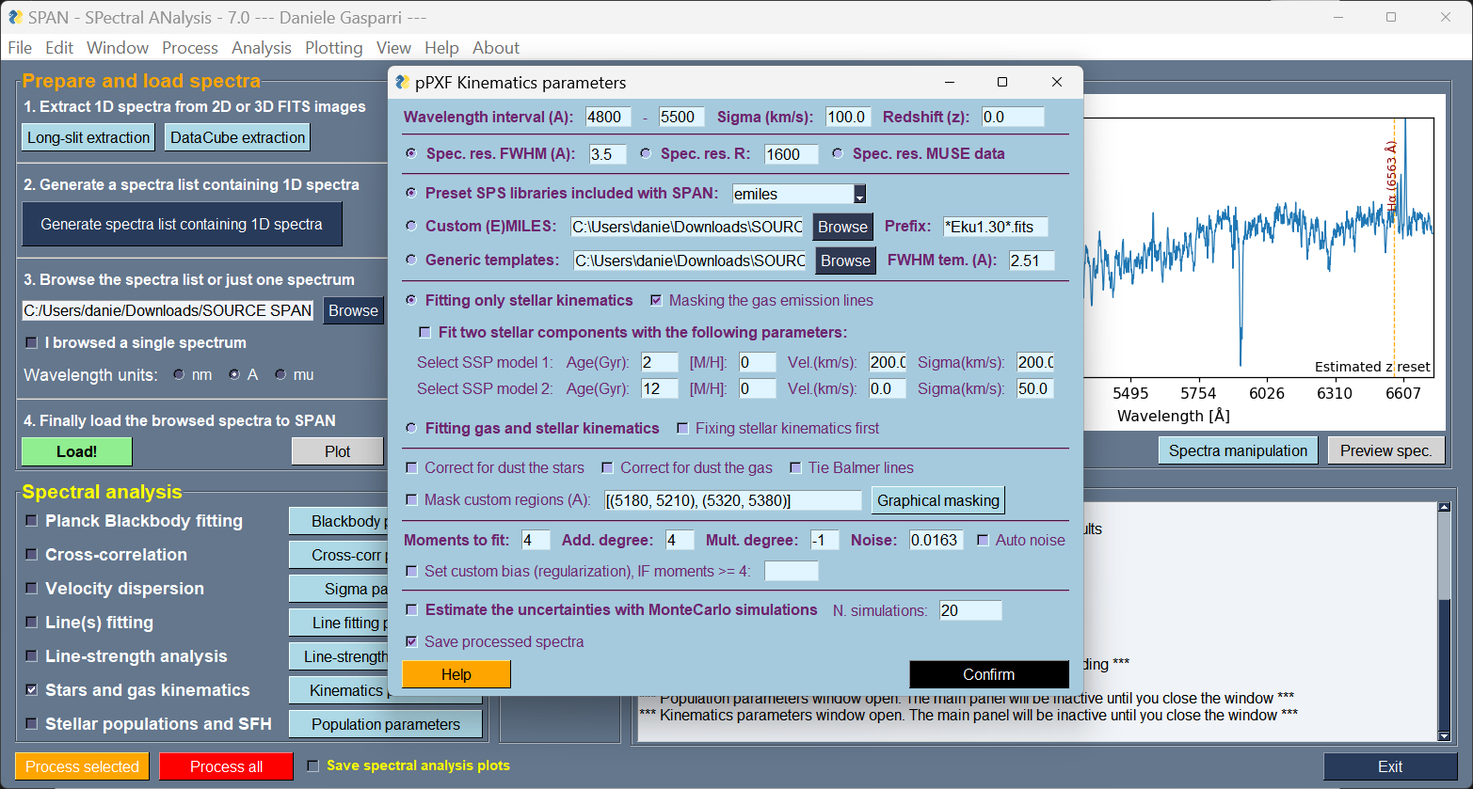
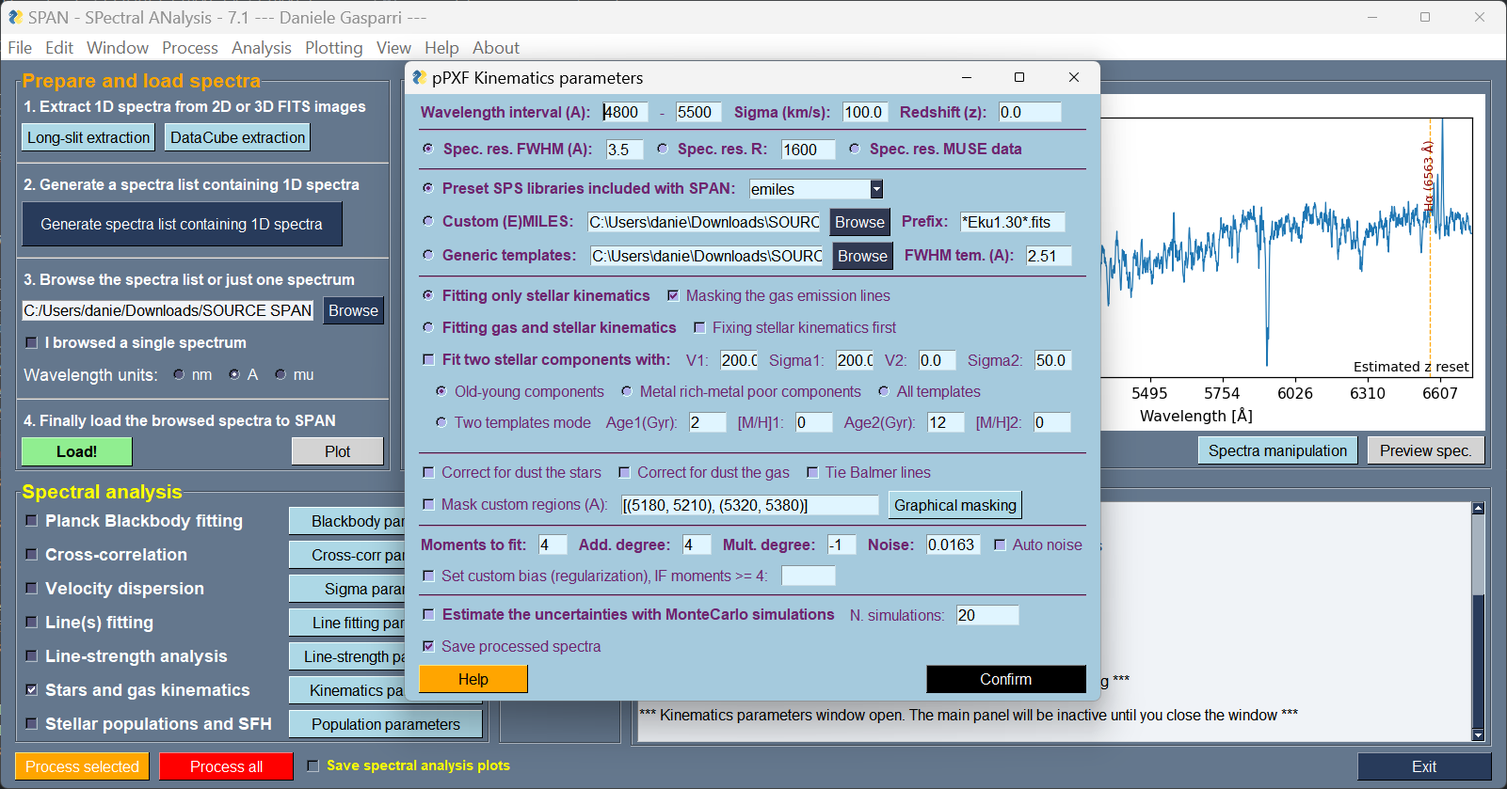
Add files via upload

diff --git a/docs/stars_and_gas_kinematics.md b/docs/stars_and_gas_kinematics.md
@@ -1,5 +1,5 @@
-SPAN: SPectral ANalysis software V7.0
-Daniele Gasparri, September 2025
+SPAN: SPectral ANalysis software V7.1
+Daniele Gasparri, October 2025
 
 # Stars and gas kinematics #
 
@@ -45,31 +45,39 @@ You can use any kind of EMILES templates or generic ones. The generic templates 
 
 
 ### Fourth Section: Which component to fit
-1. "Fitting only stellar kinematics": You can mask all (potential) emission lines to fit only the stellar component. Here you can also decide whether fitting two stellar components by activating the "Fit two stellar components with the following parameters" checkbox. The two component fit is performed by extracting two SSP templates from the library you have chosen above, with defined age and metallicity, following Rubino et al., 2021. You must insert the age and metallicity values of the two SSP to be retrieved, as well as a GOOD guess of the velocity and velocity dispersion of the two components you think to see in your spectrum. I stress out that a good guess is necessary (according to Cappellari et al., 2023 and the pPXF documentation), so first take an accurate look at your spectrum and make some tries.
-2. "Gas and Stars Kinematics": Considers both stellar and gaseous emission lines. Here only one stellar component is fitted, along with as many gaseous components SPAN will find on your spectrum (Balmer liner, forbidden lines and other lines), based on a modified version of the line emission template provided by pPXF and embedded in the "spectral_analysis.py" module in the "span_functions" folder. By default, stars and gas kinematics are calculated together with one fit. However, often is necessary to fix the stellar kinematics to perform a more accurate gas fit. The option "Fixing stellar kinematics first" will perform a first fit only for the stellar components and will use the kinematics moments derived to fix them in the subsequent fit for the gas component.
+
+1. "Fitting only stellar kinematics": Considering only the stellar component. To prevent gas emission lines in the optical, the option "Mask emission lines is activated by default". If you are fitting the optical window and are absolutely sure to not have emission (usually in HBeta and HAlpha) you can disable this option. 
+2. "Gas and Stars Kinematics": Considers both stellar and gaseous emission lines. The gas components are divided into three families: Balmer lines, forbidden lines, other lines. SPAN will automatically fit all the components found in the spectral range given, using a modified version of the line emission template provided by pPXF and embedded in the "spectral_analysis.py" module in the "span_functions" folder. By default, stars and gas kinematics are calculated together with one fit. However, often is necessary to fix the stellar kinematics to perform a more accurate gas fit. The option "Fixing stellar kinematics first" will perform a first fit only for the stellar components and will use the kinematics moments derived to fix them in the subsequent fit for the gas component.
+3. Two stellar component fit option: Here you can also decide to fit two stellar components by activating the "Fit two stellar components with:" checkbox. This option is important only when you have kinematic decoupled stellar components (e.g. counter-rotating discs) with high S/N (> 50). It can be activated both with stellar and gas fit option, but gas will always be fitted with one kinematic component. Dust correction is not available (both for star and gas) in this mode. You need to insert an accurate velocity and velocity dispersion guess for both the stellar components. Beside this, you can select the templates to assign to each component, based on three options: 1) Old (> 5 Gyr) and young (< 5 Gyr) components, 2) Metal rich ([M/H] > 0 ) and metal poor ([M/H] < 0) components, 3) pick two templates with fixed age and metallicity. This option has been used in some works with counter-rotating discs as such Rubino et al., 2021.
+**WARNING:** Two component fit is available only by using the pre-set template set of SPAN and with any (E)MILES template. Not available for fully custom templates, since it needs to read the information about age and metallicity of the SSPs.
+**IMPORTANT1:** For the two component fit you must always insert a GOOD guess of the velocity and velocity dispersion of the two components you think to see in your spectrum. I stress out that a good guess is necessary (according to Cappellari et al., 2023 and the pPXF documentation), so first take an accurate look at your spectrum. Some tries may be necessary to find the correct parameters and it is better to perform these tests on spectral regions not affected by gas (e.g. the CaT lines) with the option "Fit only stellar kinematics".
+**IMPORTANT2:** If "save processed spectra" is activated, in the two component fit mode SPAN will save the bestfit template from pp.bestfit provided directly by pPXF. However, this bestfit template contains the two components summed up. If you want to separate and analyze each stellar component, SPAN will also save the two besftit templates for each stellar component (suffix comp1_ and comp2_) so that comp1_+comp2_ = pp.bestfit. This uses the pp.matrix keyword of pPXF to reconstruct the bestfit models of each stellar component. Be aware that if you intend to use these separated bestfit templates for further analysis besides the kinematics (e.g. line-strength, SFH) you SHOULD perform the two component fit using ONLY multiplicative degree and deactivating the additive (set to -1). If using additive degree, SPAN will reconstruct and save the two separated bestfit templates without considering the additive polynomials you gave, so you should expect comp1_+comp2_ != pp.bestfit. This should preserve the line fluxes anyway, but it's better to simply avoid the additive degree polynomial, where possible. When gas emission is present, is expected that comp1_+comp2_ != pp.bestfit, since here pp.bestfit contains also the emission lines. 
+**IMPORTANT3:** pPXF requires spectra to be normalized to unity to avoid instabilities, but the gas flux calculated on normalized spectra is not physically useful. Therefore, during the "Stars and gas kinematics" task with the option "Stellar and gas kinematics", SPAN saves the normalization factor of each spectrum (np.median(galaxy)) and multiplies by this factor the gas flux calculated by pPXF to give a physical flux for the gas. These gas flux values are NOT shown in the pPXF output in the terminal (I cannot modify the pPXF output), but are saved and stored in the ASCII file generated in the "Process all" mode.
 
 
 ### Fifth Section: Dust and masking
-Here you can activate the dust/extinction corrections or decide to mask custom regions of your spectra. 
+Here you can activate the dust/extinction corrections or decide to mask custom regions of your spectra.
 
 The dust correction uses the Cappellari (2023) 2-parameter attenuation model for the stellar component and the Calzetti (2000) 1-parameter attenuation model for the gas. If you are interested only to kinematics (i.e. no gas flux) you can safely neglect the dust parametrization in most situations.
+**WARNING:** Dust correction is not available for the two component fit mode.
 
 The masking will act directly on the "goodpixels" keyword of pPXF and can be used also when the emission line masking is activated.
-There are two masking options available: 
+There are two masking options available:
 
 - Manual masking, by inserting the wavelength interval(s) to be masked, separated by commas and parenthesis in the text box. If invalid values are inserted, SPAN will warn you.
 - Graphical masking mode, activated by pressing the "Graphical masking" button. In this mode, an interactive Matplotlib window will open displaying the spectrum selected. You can then mask custom portion directly on the spectrum by ctrl+left click and drag. You can deselect the masked region by ctrl+right click and drag. On touchscreen devices (i.e. Android systems), masking and unmasking modes are activated by a tap on the screen and the relative selection is done by tapping and dragging on the spectrum. When graphical masking in done, you can close the Matplotlib window and the text box on the left will update with the new ranges selected.
 
 
 ### Sixth Section: Kinematic Parameters
-- Gauss-Hermite Moments: Determines the complexity of the Line-of-Sight Velocity Distribution (LOSVD) model. Minimum moments to be fitted: 2 (radial velocity + velocity dispersion). Maximum moments: 6. Typical values: 2 for regular galaxies and/or for the two stellar component fit, 4 for interacting or asymmetric galaxies.
-- Polynomial Degree: Specifies the degree of additive and multiplicative polynomials used by pPXF to adjust the continuum level of spectral templates. Additive polynomials give reliable kinematics results. A degree of 4 is a good starting point. **WARNING:** Additive polynomials are fine for pure kinematic analysis but not for measuring the gas line fluxes. If you are interested also to a correct measurement of gas line fluxes, you should deactivate the additive degree polynomials (set the degree to -1) and use ONLY the multiplicative degree polynomials. 
+
+- Gauss-Hermite Moments: Determines the complexity of the Line-of-Sight Velocity Distribution (LOSVD) model. Minimum moments to be fitted: 2 (radial velocity + velocity dispersion). Maximum moments: 6. Typical values: 2 for regular galaxies and/or for the two stellar component fit, 4 for interacting or asymmetric galaxies. **IMPORTANT:** moments are always referred to the stellar component. Gas moments are set to 2 by default and cannot be changed.
+- Polynomial Degree: Specifies the degree of additive and multiplicative polynomials used by pPXF to adjust the continuum level of spectral templates. Additive polynomials give reliable kinematics results. A degree of 4 is a good starting point. **WARNING:** Additive polynomials are fine for pure kinematic analysis but not for measuring the gas line fluxes. If you are interested also to a correct measurement of gas line fluxes, you should deactivate the additive degree polynomials (set the degree to -1) and use ONLY the multiplicative degree polynomials.
 - Noise Level: Represents the expected mean noise level in the spectrum (assumed constant across the wavelength range), used to compute the Chi^2 of the fit and derive formal uncertainties.
-As per the pPXF documentation, formal uncertainties are meaningful only if Chi2 = 1.
-If unsure about the noise level, enable "Auto Noise". This feature will:
-	1. Perform an initial fit using the user-provided noise level without regularization (bias keyword set to zero).
-	2. Compute a refined noise estimate.
-	3. Re-run the fit using the updated noise value to obtain more accurate LOSVD parameters.
+  As per the pPXF documentation, formal uncertainties are meaningful only if Chi2 = 1.
+  If unsure about the noise level, enable "Auto Noise". This feature will:
+  1. Perform an initial fit using the user-provided noise level without regularization (bias keyword set to zero).
+  2. Compute a refined noise estimate.
+  3. Re-run the fit using the updated noise value to obtain more accurate LOSVD parameters.
 - Custom bias keyword: To be used only when you fit at least 4 moments. This lets you to change the default bias value that pPXF uses (bias = 0.7*np.sqrt(500./goodpixels.size), from Cappellari & Emsellem 2004) and try to adjust the fit to a better estimate of H3 and H4 moments.
 
 ### Seventh Section: Uncertainty Estimation
@@ -84,6 +92,7 @@ In **"Process selected"** mode, if the option "Save processed spectra" is activa
 - bestfit model spectrum
 - bestfit gas model spectrum (if kinematics of stars and gas is activated)
 - emission corrected spectrum (if kinematics of stars and gas is activated)
+- bestfit model spectrum of the stellar component 1 and 2 (if "Fit two stellar components" option is activated)
 - continuum subtracted gas spectrum (if kinematics of stars and gas is activated).  
 These spectra are saved in the "processed_spectra" subfolder within the "SPAN_results" folder.
 If you are not interested in these spectra products, you can just disable the option "Save processed spectra" and save some space on the disk.

diff --git a/docs/linestrength.md b/docs/linestrength.md
@@ -1,5 +1,5 @@
-SPAN: SPectral ANalysis software V7.0
-Daniele Gasparri, September 2025
+SPAN: SPectral ANalysis software V7.1
+Daniele Gasparri, October 2025
 
 # Line-strength analysis #
 
@@ -41,7 +41,7 @@ The interpolation between the measured and model indices is performed with three
 1. **Linear interpolation**  
    A multi-dimensional linear interpolation using the "griddata" function from the "SciPy" module retrieves age, metallicity, and alpha/Fe (where available) from the observed Lick/IDS indices projected onto the model grids. Off-grid values are not calculated and return NaNs.  
 2. **Supervised Machine Learning**  
-   The **Gaussian Process Regression (GPR)** has proven to be a powerful tool for deriving stellar parameters from stellar spectra (e.g. Bu et al., 2015,2020). To my knowledge, no attempt has yet been made to apply GPR to unresolved galaxy spectra in the context of Lick/IDS line-strength studies. In SPAN, I trained the GPR algorithm with the line-strength predictions of the SSP models. The trained models, stored in the "system_files" folder, are used to constrain the age, metallicity, alpha/Fe and the relative uncertainties of the stellar populations. The GPR method results to be 10 times faster and yields results in excellent agreement with the linear interpolation method for spectra with S/N > 20. For lower S/N spectra, the GPR still converges whereas the simple linear interpolation fails to find a solution or gives very large uncertainties. WARNING: off-grid values are calculated by model extrapolation. Please, check the grid limits of your SSP models and decide whether trust the extrapolated off-grid values. This method is not available with Xshooter models which do not have alpha/Fe parametrization and for which the linear interpolation with the "griddata" function represents the best option for a simple 2 parameter space (age and metallicity)  
+   The **Gaussian Process Regression (GPR)** has proven to be a powerful tool for deriving stellar parameters from stellar spectra (e.g. Bu et al., 2015,2020). To my knowledge, no attempt has yet been made to apply GPR to unresolved galaxy spectra in the context of Lick/IDS line-strength studies. In SPAN, I trained the GPR algorithm with the line-strength predictions of the SSP models. The trained models, stored in the "system_files" folder, are used to constrain the age, metallicity, alpha/Fe and the relative uncertainties of the stellar populations. The GPR method results to be 10 times faster and yields results in excellent agreement with the linear interpolation method for spectra with S/N > 20. For lower S/N spectra, the GPR still converges whereas the simple linear interpolation fails to find a solution or gives very large uncertainties. The GPR option is available for the pre-set SSP models with alpha/Fe parametrization, such as Thomas 2010, sMILES and MILES. It is not available for the Xshooter models for which the simple linear interpolation will give fast and reliable results. **WARNING:** off-grid values are calculated by model extrapolation. Please, check the grid limits of your SSP models and decide whether trust the extrapolated off-grid values. This method is not available with Xshooter models which do not have alpha/Fe parametrization and for which the linear interpolation with the "griddata" function represents the best option for a simple 2 parameter space (age and metallicity). **IMPORTANT:** the GPR models have been trained using the version 1.7.0 of the scikit-learn module. If you are using a different version, results may be unreliable and Python will tell you loud and clear. You need to train new models. Don't worry, SPAN takes care of almost everything. You just need to go to the "system_files" folder of your SPAN installation and delete the *.pkl files of Thomas2010, sMILES and MILES (3 files for each model, therefore 9 files in total). When using the GPR for the first time, SPAN will train again the models using your current version of scikit-learn and store them in the same folder. You do not need to worry about that if you installed SPAN as a standalone app for Windows, since the right scikit-learn module has been already embedded.  
 3. **Markov chain Monte Carlo simulations**  
    The MCMC option fits age, metallicity, and alpha/Fe by forward-modeling the Lick indices used as population diagnostics from SSP grids and sampling the posterior in (log(age),met,alpha). It first anchors (log(age),met) with Hbeta and MgFe′ of Thomas et al, 2003 (which is nearly alpha-insensitive), alpha/Fe from Mgb and Fe via linear interpolation with the "griddata" function, and then performs an MCMC with a Gaussian prior around the anchor(s) and a Gaussian likelihood with diagonal covariance (measurement errors plus small calibration floors). By default, it uses 48 Walkers and 3000 steps. The method is convex-hull safe: if the observed indices fall outside the SSP model domain, SPAN returns NaNs instead of extrapolating. Reported values are posterior medians with 16–84% credible intervals. WARNING: this method is computationally expensive and should be used with care for a small sample of spectra. It is available only for SSP models with Alpha/Fe parametrization (i.e. NOT for Xshooter models).  
 

diff --git a/docs/changelog.md b/docs/changelog.md
@@ -1,10 +1,21 @@
-SPAN: SPectral ANalysis software V7.0
-Daniele Gasparri, September 2025
+SPAN: SPectral ANalysis software V7.1
+Daniele Gasparri, October 2025
 
 
 ## Changelog
 
+**Version 7.1 (20251020):**  
+
+- Improved and bug corrected the smoothing option in the 'Plot maps' sub-program.
+- Improved and expanded the two component fit in the 'Stars and gas kinematics' task to be more general and with four presets available: old-young components, metal rich-metal poor components, all templates, and two template with fixed age and metallicity mode, following the work of Rubino et all., 2021. 
+- Modification of the 'kinematic parameters' layout to be more clear and to allow the new options for the two component fitting. 
+- Improved the 'correct_distortion_slope' of the 'system_span.py' module used by the 'longslit extraction' sub-program to perform a better correction of the slope of 2D FITS containing the long-slit spectrum to extract. Now the flux is rigorously conserved while correcting for the slope. 
+- Added new interactive functionalities to the Preview: F for the line Fitting mode, E for the equivalent width mode, S for the S/N mode, D for the Differential wavelength and velocity mode, I for the Integrated line flux mode, L for peak finding, P for saving snapshot. C cancels the overlays. 
+- Gas flux in "Stars and gas kinematics" now is calculated and saved in physical units. pPXF requires spectra to be normalized to unity to avoid instabilities, but the gas flux given has not physical meaning, so now SPAN saves the normalization factor (np.median(galaxy) and multiplies by this factor the gas flux calculated by pPXF on normalized spectra. These gas flux values are NOT shown in the pPXF output in the terminal (I cannot modify the pPXF output), but are stored in the ASCII files generated in the 'Process all' mode.
+- Minor bug fixes
+
 **Version 7.0 (20250928):**  
+
 - Major changes to the layout: The Utilities frame is now a stand-alone window in the 'Window --> Utilities' menu. This frame has been replaced with a real-time and interactive preview of the selected spectrum in the listbox which allows panning, zooming (left mouse click) and redshift estimation by shifting the spectrum to match the reference lines marked (right-click and drag). Some minor cosmetic adjustments to the layout (e.g. tittle for the listbox and better alignment of the items) have been performed. The main GUI is now resizable to account the zooming options (see below).
 - Introduced the 'View' menu where you will find zoom options to better adapt the GUI to different screen resolutions. You can zoom-in, zoom-out or reset the zoom to the default level. The zooming acts on all the GUI windows. This feature is still experimental and some glitch are expected, especially for Windows systems, but they do not have impact on the stability of SPAN. 
 - Enforced the preliminary check of the loaded spectra with an estimation of a global S/N and flag in the listbox if S/N <=5.
@@ -18,6 +29,7 @@ Daniele Gasparri, September 2025
 
 
 **Version 6.6 (20250909):**  
+
 - Now the 'Plot maps' sub-program stores the parameter values until SPAN is closed.
 - Fixed a bug that prevented to save spectra products (i.e. fit residuals, bestfit template) for the 'Stellar populations and SFH' task when no gas lines where included of not found.
 - Added new functionalities to the 'Plot maps' sub-program: isophotes overplotting and smoothing. This required also to add the 'save_image' function to the 'cube_extract' module that extract and saves the 2D image by averaging all the wavelengths selected from the datacube. This image is required in the 'Plot maps' sub-program, if isophotal contouring is needed (optional). 
@@ -73,6 +85,7 @@ Complete refactoring of the code, split in different modules. Use of the DataCla
 - Major changes to the 'cube_extract' module to improve efficiency.
 
 **Version 6.1 (20250107):**  
+
 - Major change to the spectra manipulation frame: re-arranged the spectra math tasks and introduced the possobility for the user to re-order the spectra manipulation tasks.
 - Added the dust parametrization for the 'Stars and gas kinematics' tasks.
 

diff --git a/docs/index.md b/docs/index.md
@@ -1,13 +1,23 @@
 # SPAN: Spectral Analysis Software
 
 📖 **Author:** Daniele Gasparri  
-📅 **Latest Release:** September 2025  
+📅 **Latest Release:** October 2025  
 
 ![PyPI Version](https://img.shields.io/pypi/v/span-gui)
 ![Python Version](https://img.shields.io/badge/python-3.10%2B-blue)
 [![License](https://img.shields.io/badge/license-Non--Commercial-blue)](./LICENSE)
 
-## What’s New in SPAN 7.0
+
+**SPAN is a cross-platform Python GUI software for the extraction, manipulation, and advanced analysis of 1D astronomical spectra in the optical and near-infrared (NIR) ranges, optimized for galaxy studies.**
+
+
+## What’s New in SPAN 7.1
+
+- Expanded and improved the two component fit of the "Stellar and gas kinematics" task, which is now available both for the stellar and gas kinematics, with four presets: old-young components, metal rich-metal poor components, all templates, and two templates mode, with custom selection of age and metallicity following the work of Rubino et al. 2021. 
+- Added interactive analysis modes to the Preview. You can press the key F, E, S, D, I, L, P to enter the Fitting mode, Equivalent width mode, Signal-to-noise mode, Differential wavelength and velocity mode, Integrated line flux mode, Line-peak finding, snaPshot. Draw a region for the F, E, S, I modes or click on two points in the D mode to see the results in the HUD, in the terminal window and to automatically save them in logging files in the "SPAN_results" folder. Press again the respective key to exit the selected analysis mode and return back to idle (not applicable to L and P modes, they exit automatically). Press C to cancel all the overlays. Double click resets also zoom and panning.
+- Minor bug fixes
+
+More from the version 7.X:
 
 - Interactive Preview frame that shows the selected spectrum directly in the main GUI. In the preview you can:
   - Zoom, pan, and reset with trackpad touches and/or mouse left click/scroll buttons.
@@ -71,7 +81,7 @@ The goal of SPAN is to make spectral manipulation and analysis faster and simple
 - **Plotting:** Generates high quality publication grade plots  
 - **Customizable:** Many parameters can be set to use SPAN for a wide range of science cases  
 - **Fully cross-platform:** SPAN is optimized and can run on any device and any operating system, including Android (using for example the Pydroid3 app)  
-- **Stand-alone app form Windows**: SPAN now can also be installed and used as a standard app for Windows 10 and 11 systems, without requiring Python. 
+- **Stand-alone app for Windows**: SPAN now can also be installed and used as a standard app for Windows 10 and 11 systems, without requiring Python. 
 
 ## Fully cross-platform capabilities
 
@@ -104,6 +114,7 @@ You can install **SPAN** using `pip`:
 pip3 install span-gui
 ```
 
+Otherwise, if you prefer the stand-alone app for Windows, you can [download the Windows installer of SPAN here]([SPAN_setup.exe](https://1drv.ms/u/c/49228024d7df0d98/EUb0-WDYnxtJlUNyy62Fy6cBLMcGN0upmxHoRVBmhrxURA?e=KUSALd))
 
 ## Tested Compatibility
 

diff --git a/docs/tips_and_tricks.md b/docs/tips_and_tricks.md
@@ -1,5 +1,5 @@
-SPAN: SPectral ANalysis software V7.0
-Daniele Gasparri, September 2025
+SPAN: SPectral ANalysis software V7.1
+Daniele Gasparri, October 2025
 
 # Tips and Tricks #
 
@@ -83,4 +83,4 @@ Cropping spectra to include only the wavelength regions of interest can signific
 
 
 14. **Stellar populations with Lick/IDS indices and machine learning GPR**  
-The determination of the stellar parameters with the Lick/IDS indices and the GPR method uses predictive machine-learning models and the scikit-learn module. The default models stored in the system_files folder have been trained with the scikit-learn 1.4.2 version. If you are using different version for this library, the predictions may be inaccurate and a warning is issued in the output window. In this case you should delete the trained models stored in the "system_files" folder (the files have the .pkl extension) and run again SPAN. If the Lick/IDS task with GPR stellar parameters determination does not find the trained models, it will create again the first time is executed, using the scikit-learn version you have installed. This will require a little time, but then you can use these new trained models until you change the version of the scikit-learn module.
+The determination of the stellar parameters with the Lick/IDS indices and the GPR method uses predictive machine-learning models and the scikit-learn module. The default models stored in the system_files folder have been trained with the scikit-learn 1.7.0 version. If you are using different version for this library, the predictions may be inaccurate and a warning is issued in the output window. In this case you should delete the trained models stored in the "system_files" folder (the files have the .pkl extension) and run again SPAN. If the Lick/IDS task with GPR stellar parameters determination does not find the trained models, it will create again the first time is executed, using the scikit-learn version you have installed. This will require a little time, but then you can use these new trained models until you change the version of the scikit-learn module.

diff --git a/docs/manual.md b/docs/manual.md
@@ -1,5 +1,5 @@
-SPAN: SPectral ANalysis software V7.0
-Daniele Gasparri, September 2025
+SPAN: SPectral ANalysis software V7.1
+Daniele Gasparri, October 2025
 
 # SPAN user manual
 
@@ -408,5 +408,5 @@ Please, report any bug or comment to daniele.gasparri@gmail.com
 Have fun!
 
 Daniele Gasparri  
-2025-09-20  
+2025-10-20  
 Greetings from the Atacama desert!

diff --git a/docs/stellar_populations_and_SFH.md b/docs/stellar_populations_and_SFH.md
@@ -1,5 +1,5 @@
-SPAN: SPectral ANalysis software V7.0
-Daniele Gasparri, September 2025
+SPAN: SPectral ANalysis software V7.1
+Daniele Gasparri, October 2025
 
 # Stellar populations and SFH #
 

diff --git a/docs/spectra_manipulation.md b/docs/spectra_manipulation.md
@@ -1,5 +1,5 @@
-SPAN: SPectral ANalysis software V7.0
-Daniele Gasparri, September 2025
+SPAN: SPectral ANalysis software V7.1
+Daniele Gasparri, October 2025
 
 # Spectra manipulation panel #
 

diff --git a/docs/spectral_analysis_overview.md b/docs/spectral_analysis_overview.md
@@ -1,5 +1,5 @@
-SPAN: SPectral ANalysis software V7.0
-Daniele Gasparri, September 2025
+SPAN: SPectral ANalysis software V7.1
+Daniele Gasparri, October 2025
 
 # The Spectral analysis frame
 

diff --git a/docs/long-slit_extraction.md b/docs/long-slit_extraction.md
@@ -1,5 +1,5 @@
-SPAN: SPectral ANalysis Software V7.0
-Daniele Gasparri, September 2025
+SPAN: SPectral ANalysis Software V7.1
+Daniele Gasparri, October 2025
 
 # Long-slit extraction #
 

diff --git a/docs/datacube_extraction.md b/docs/datacube_extraction.md
@@ -1,5 +1,5 @@
-SPAN: SPectral ANalysis software V7.0
-Daniele Gasparri, September 2025
+SPAN: SPectral ANalysis software V7.1
+Daniele Gasparri, October 2025
 
 # DataCube extraction #
 

diff --git a/docs/plot_data.md b/docs/plot_data.md
@@ -1,5 +1,5 @@
-SPAN: SPectral ANalysis software V7.0
-Daniele Gasparri, September 2025
+SPAN: SPectral ANalysis software V7.1
+Daniele Gasparri, October 2025
 
 # Plot data window #
 
